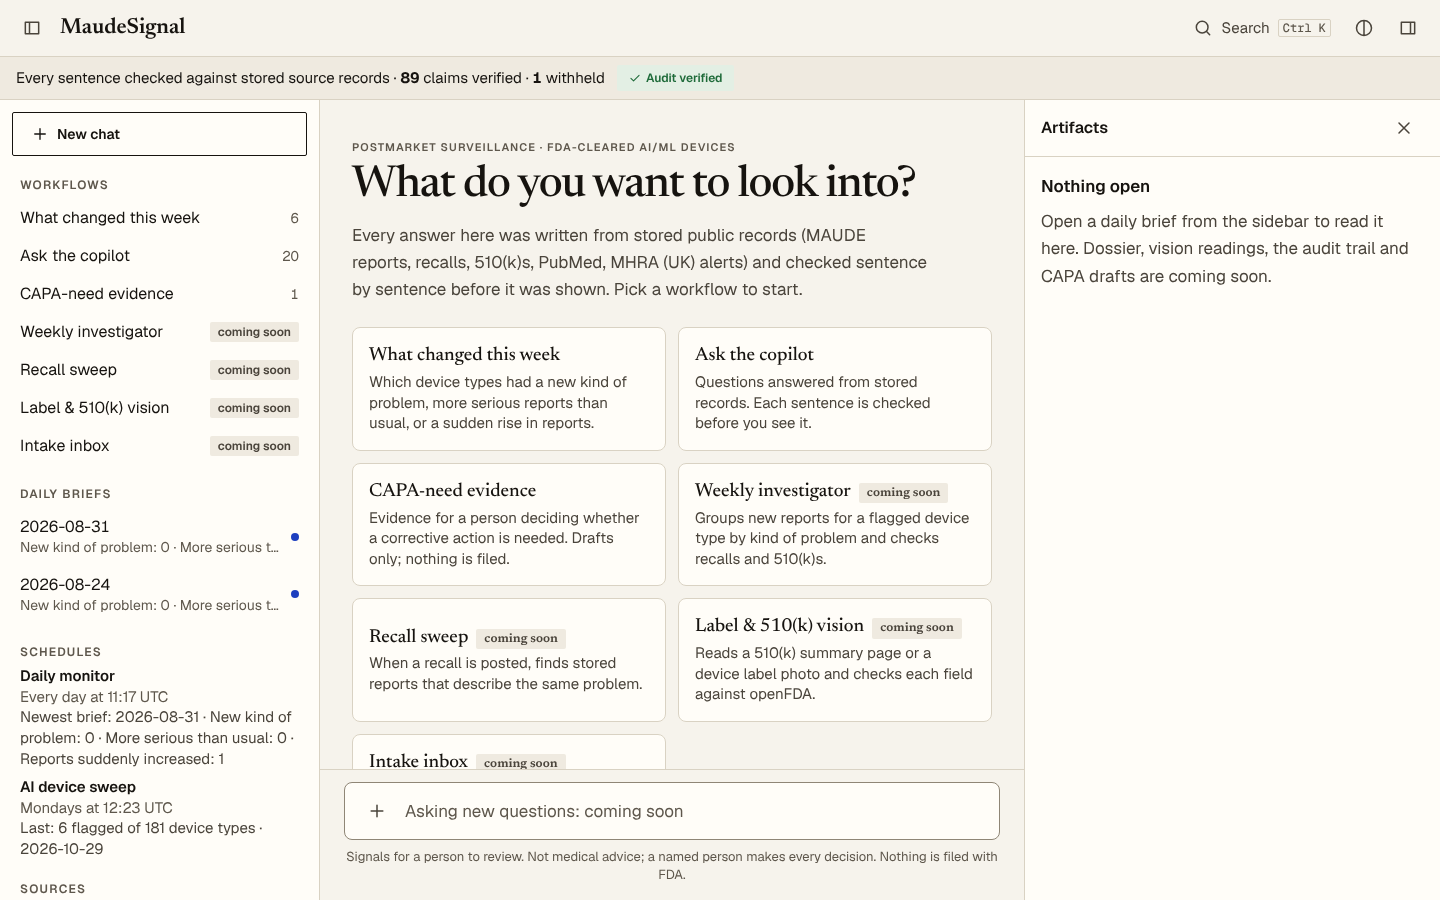
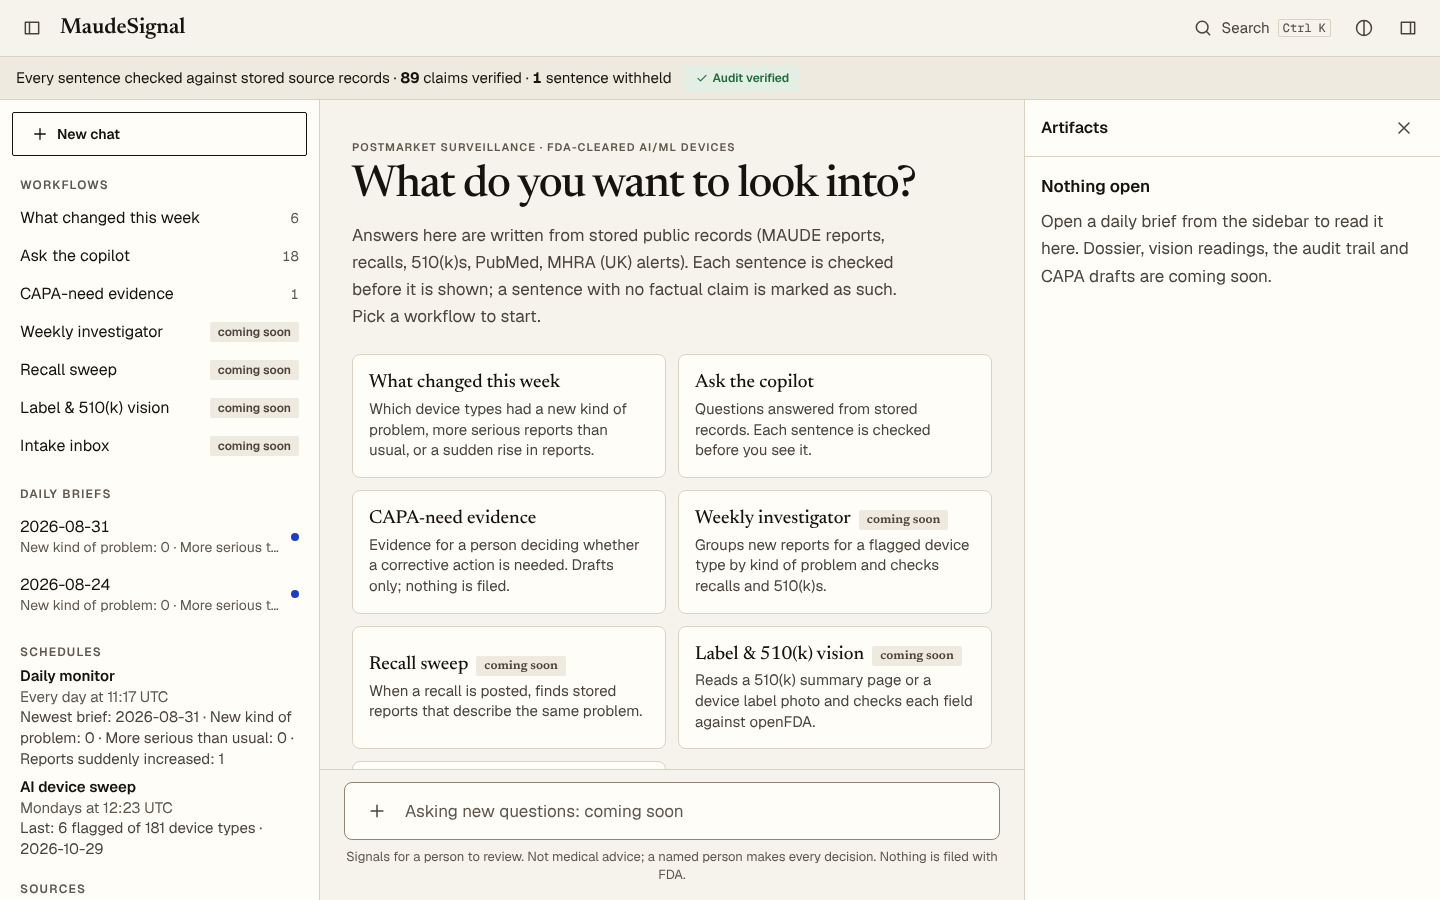
B1 fix round 2: ruff clean for qa script, forbidden words out of public data, honest UI labels
- shoot_b1.py: docstrings and noqa so `ruff check .` passes from the repo root
- exporter: drop the display-excluded 00-voice-main audit run (chain still re-verified),
  show tool names by display label in audit payloads, user-facing investigations note,
  rename workflow id overnight-signals -> weekly-signals
- test: no forbidden word in any exported JSON; excluded audit run not exported
- UI: "No factual claim" pill for claim-free sentences, greetings labelled and not counted,
  one banner per coming-soon workflow, "1 sentence withheld", welcome copy no longer overclaims
- Needs coordinator: DATA_CONTRACT.md should record the 00-voice-main exclusion, the
  weekly-signals id, and the "stored source records" header wording

Claude-Session: https://claude.ai/code/session_01SawpACqLLsGWXrK6TBXRho

diff --git a/web/src/components/ChatPane.tsx b/web/src/components/ChatPane.tsx
@@ -42,11 +42,15 @@ function Composer() {
 
 function SentenceLine({ s }: { s: Sentence }) {
   const ok = s.status === 'pass'
+  const noClaims = ok && s.claims.length === 0
+  const pill = !ok
+    ? 'bg-critical-soft text-critical'
+    : noClaims
+      ? 'bg-sunk text-ink-2'
+      : 'bg-success-soft text-success'
   return (
     <li className="py-1.5">
-      <span className={`ws-pill mr-2 ${ok ? 'bg-success-soft text-success' : 'bg-critical-soft text-critical'}`}>
-        {ok ? 'Verified' : 'Withheld'}
-      </span>
+      <span className={`ws-pill mr-2 ${pill}`}>{!ok ? 'Withheld' : noClaims ? 'No factual claim' : 'Verified'}</span>
       <span className={`ws-wrap ${ok ? '' : 'text-ink-3 line-through'}`}>{s.text}</span>
       {!ok && s.reasons.length > 0 && (
         <ul className="ws-wrap m-0 mt-1 list-disc pl-8 text-[15px] text-critical">
@@ -96,15 +100,16 @@ function WorkflowView(p: Props & { def: WorkflowDef }) {
     <div>
       <h1 className="t-title-lg m-0">{p.def.title}</h1>
       <p className="mt-2 text-ink-2">{p.def.blurb}</p>
-      {p.def.comingSoon && (
-        <p className="ms-banner ms-banner--info mt-4">Coming soon. Nothing is stored here yet.</p>
-      )}
-      {agentic && (
+      {agentic && p.recordedRuns === 0 && (
         <p className="ms-banner ms-banner--info mt-4">
-          {p.recordedRuns === 0
-            ? (p.investigationNotes[0] ?? 'No recorded runs yet.')
-            : `${p.recordedRuns} recorded runs.`}
+          Coming soon. {p.investigationNotes[0] ?? 'No recorded runs yet.'}
         </p>
+      )}
+      {agentic && p.recordedRuns > 0 && (
+        <p className="ms-banner ms-banner--info mt-4">{`${p.recordedRuns} recorded runs.`}</p>
+      )}
+      {p.def.comingSoon && !agentic && (
+        <p className="ms-banner ms-banner--info mt-4">Coming soon. Nothing is stored here yet.</p>
       )}
       {p.def.id === 'vision' && (
         <p className="ms-banner ms-banner--info mt-4">
@@ -141,8 +146,9 @@ function Welcome({ onWorkflow }: { onWorkflow: (id: WorkflowId) => void }) {
         What do you want to look into?
       </h1>
       <p className="mt-3 max-w-xl text-ink-2">
-        Every answer here was written from stored public records (MAUDE reports, recalls, 510(k)s, PubMed,
-        MHRA (UK) alerts) and checked sentence by sentence before it was shown. Pick a workflow to start.
+        Answers here are written from stored public records (MAUDE reports, recalls, 510(k)s, PubMed,
+        MHRA (UK) alerts). Each sentence is checked before it is shown; a sentence with no factual claim
+        is marked as such. Pick a workflow to start.
       </p>
       <ul className="m-0 mt-6 grid list-none grid-cols-1 gap-3 p-0 sm:grid-cols-2">
         {WORKFLOWS.map((w) => (

diff --git a/web/src/components/Sidebar.tsx b/web/src/components/Sidebar.tsx
@@ -28,7 +28,15 @@ function scheduleResult(s: Schedule): string {
 }
 
 export function Sidebar(p: Props) {
-  const counts = new Map(p.threads.workflows.map((w) => [w.id, w.thread_ids.length]))
+  // Greetings (no tool steps, no claims) are not answers, so they are not counted.
+  const greeting = new Set(
+    p.threads.threads
+      .filter((t) => t.tool_steps.length === 0 && t.sentences.every((s) => s.claims.length === 0))
+      .map((t) => t.id),
+  )
+  const counts = new Map(
+    p.threads.workflows.map((w) => [w.id, w.thread_ids.filter((id) => !greeting.has(id)).length]),
+  )
   return (
     <>
       {p.open && (

diff --git a/web/src/components/Header.tsx b/web/src/components/Header.tsx
@@ -65,7 +65,7 @@ export function Header(p: Props) {
             <span className="ws-wrap">
               Every sentence checked against stored source records ·{' '}
               <strong className="ms-num">{h.claims_verified}</strong> claims verified ·{' '}
-              <strong className="ms-num">{h.sentences_withheld}</strong> withheld
+              <strong className="ms-num">{h.sentences_withheld}</strong> {h.sentences_withheld === 1 ? 'sentence' : 'sentences'} withheld
             </span>
             {h.audit_chain_ok ? (
               <span className="ms-chip ms-chip--ok">

diff --git a/web/src/data.ts b/web/src/data.ts
@@ -44,7 +44,7 @@ export function useWorkspaceData(): { data: WorkspaceData | null; error: string 
 
 export const WORKFLOWS: WorkflowDef[] = [
   {
-    id: 'overnight-signals',
+    id: 'weekly-signals',
     title: 'What changed this week',
     blurb: 'Which device types had a new kind of problem, more serious reports than usual, or a sudden rise in reports.',
   },

diff --git a/web/src/types.ts b/web/src/types.ts
@@ -96,7 +96,7 @@ export interface WorkspaceData {
 }
 
 export type WorkflowId =
-  | 'overnight-signals'
+  | 'weekly-signals'
   | 'ask-copilot'
   | 'capa-need-evidence'
   | 'weekly-investigator'

diff --git a/scripts/export_web_data.py b/scripts/export_web_data.py
@@ -44,7 +44,7 @@ GREETING_LABELS = ("00-voice-a", "00-voice-b")
 # (see docs/hackathon/PRD.md). They stay in demo/transcripts; only the display skips them.
 DISPLAY_EXCLUDED_LABELS = ("00-voice-main",)
 WORKFLOW_TITLES = {
-    "overnight-signals": "What changed this week",
+    "weekly-signals": "What changed this week",
     "ask-copilot": "Ask the copilot",
     "capa-need-evidence": "CAPA-need evidence",
 }
@@ -169,7 +169,7 @@ def workflow_for(label: str) -> str:
     if label.startswith("00-voice-"):
         return "ask-copilot"
     if label.split("-", 1)[0] in OVERNIGHT_LABELS:
-        return "overnight-signals"
+        return "weekly-signals"
     if label.split("-", 1)[0] in CAPA_LABELS:
         return "capa-need-evidence"
     return "ask-copilot"
@@ -376,6 +376,17 @@ def build_briefs(root: Path) -> dict[str, Any]:
     return {"schema_version": SCHEMA_VERSION, "briefs": briefs, "notes": notes}
 
 
+def relabel_tools(value: Any) -> Any:
+    """Show tool names by their display label inside an audit payload (display copy only)."""
+    if isinstance(value, str):
+        return TOOL_LABELS.get(value, value)
+    if isinstance(value, list):
+        return [relabel_tools(v) for v in value]
+    if isinstance(value, dict):
+        return {k: relabel_tools(v) for k, v in value.items()}
+    return value
+
+
 def build_audit(root: Path) -> dict[str, Any]:
     """``audit.json``: audit exports with the hash chain re-verified here."""
     runs = []
@@ -383,6 +394,11 @@ def build_audit(root: Path) -> dict[str, Any]:
     for p in sorted((root / "demo" / "transcripts").glob("audit-*.json")):
         d = read_json(p)
         ok, bad = verify_entries(d["entries"])
+        if d["run_label"] in DISPLAY_EXCLUDED_LABELS:
+            # Chain was verified above; the run itself is not exported (its question text uses
+            # words the product does not show).
+            notes.append(f"{d['run_label']}: not exported (display-excluded); chain re-verified")
+            continue
         if ok != d.get("chain_ok_at_export"):
             notes.append(f"{d['run_label']}: re-verified chain_ok={ok} differs from the export")
         entries = [
@@ -392,7 +408,7 @@ def build_audit(root: Path) -> dict[str, Any]:
                 "actor": e["actor"],
                 "action": e["action"],
                 "entity_id": e["entity_id"],
-                "payload": json.loads(e["payload_json"]),
+                "payload": relabel_tools(json.loads(e["payload_json"])),
                 "prev_hash": e["prev_hash"],
                 "entry_hash": e["entry_hash"],
             }
@@ -515,10 +531,7 @@ def build_investigations(root: Path) -> dict[str, Any]:
     runs = [read_json(p) for p in files]
     notes = []
     if not runs:
-        notes.append(
-            "No recorded runs yet. Weekly-investigator and recall-sweep runs appear here once "
-            "Track A records them under demo/investigations/."
-        )
+        notes.append("No recorded runs yet.")
     return {"schema_version": SCHEMA_VERSION, "investigations": runs, "notes": notes}
 
 

diff --git a/web/qa/shoot_b1.py b/web/qa/shoot_b1.py
@@ -24,6 +24,7 @@ SCRATCH = WEB / "qa" / "tmp"  # gitignored scratch dir for drawer/sheet/palette 
 
 
 def serve() -> tuple[socketserver.TCPServer, int]:
+    """Serve ``dist/`` on a free local port and return the server and its port."""
 
     class Quiet(http.server.SimpleHTTPRequestHandler):
         def log_message(self, format: str, *args: object) -> None:  # noqa: A002
@@ -36,6 +37,7 @@ def serve() -> tuple[socketserver.TCPServer, int]:
 
 
 def local_only(route: Route) -> None:
+    """Let local requests through and abort everything else."""
     if route.request.url.startswith("http://127.0.0.1"):
         route.continue_()
     else:
@@ -43,6 +45,7 @@ def local_only(route: Route) -> None:
 
 
 def open_page(page: Page, url: str) -> None:
+    """Open the app with network blocked and wait for the header strip and fonts."""
     page.route("**/*", local_only)
     page.goto(url, wait_until="load")
     page.wait_for_selector("text=claims verified")
@@ -50,6 +53,7 @@ def open_page(page: Page, url: str) -> None:
 
 
 def main() -> None:
+    """Take the four B1 screenshots and print the checks as JSON."""
     OUT.mkdir(parents=True, exist_ok=True)
     SCRATCH.mkdir(parents=True, exist_ok=True)
     manifest = json.loads((WEB / "public/data/manifest.json").read_text())["header"]
@@ -90,7 +94,7 @@ def main() -> None:
                 ctx.close()
         browser.close()
     srv.shutdown()
-    print(json.dumps(report, indent=2))
+    print(json.dumps(report, indent=2))  # noqa: T201
 
 
 if __name__ == "__main__":

diff --git a/tests/unit/test_export_web_data.py b/tests/unit/test_export_web_data.py
@@ -76,7 +76,7 @@ def test_header_counts_equal_direct_count_over_transcripts(out: Path) -> None:
 def test_workflows_follow_the_contract(out: Path) -> None:
     wf = {w["id"]: w["thread_ids"] for w in load(out, "threads.json")["workflows"]}
     assert wf["capa-need-evidence"] == ["05-capa-need-evidence"]
-    assert wf["overnight-signals"] == [
+    assert wf["weekly-signals"] == [
         f"{n}-{s}"
         for n, s in [
             ("01", "what-changed"),
@@ -212,3 +212,21 @@ def test_committed_manifest_assets_exist_on_disk() -> None:
         assert (data / asset).is_file(), asset
         if tracked:  # empty outside a git checkout
             assert f"web/public/data/{asset}" in tracked, f"{asset} is not committed"
+
+
+FORBIDDEN = re.compile(
+    r"fda-approved|part 11 compliant|validated|overnight|worsening signals|citation-checked"
+    r"|complaint data",
+    re.I,
+)
+
+
+def test_no_forbidden_words_in_any_exported_json(out: Path) -> None:
+    for name in JSON_FILES:
+        hit = FORBIDDEN.search((out / name).read_text(encoding="utf-8"))
+        assert hit is None, f"{name}: {hit and hit.group(0)}"
+
+
+def test_display_excluded_audit_run_is_not_exported_but_chain_still_checked(out: Path) -> None:
+    labels = [r["run_label"] for r in load(out, "audit.json")["runs"]]
+    assert "00-voice-main" not in labels and "typed" in labels
